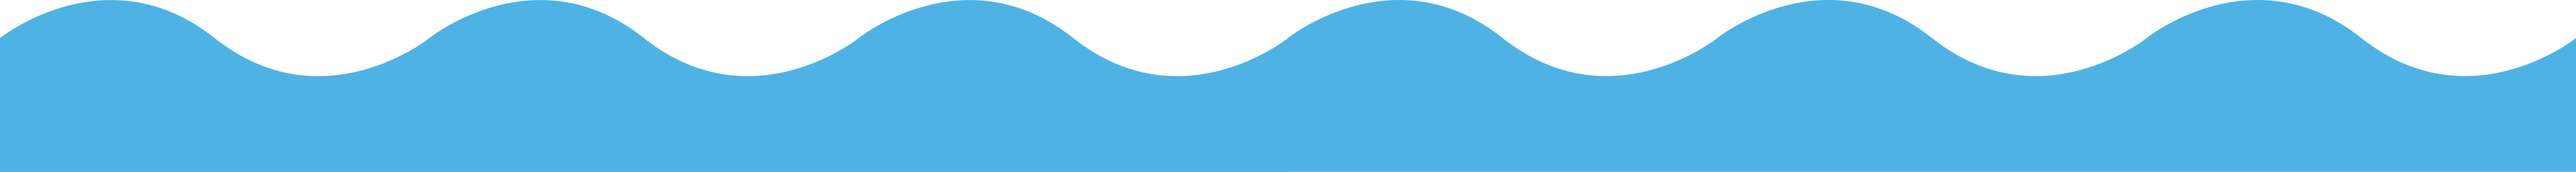
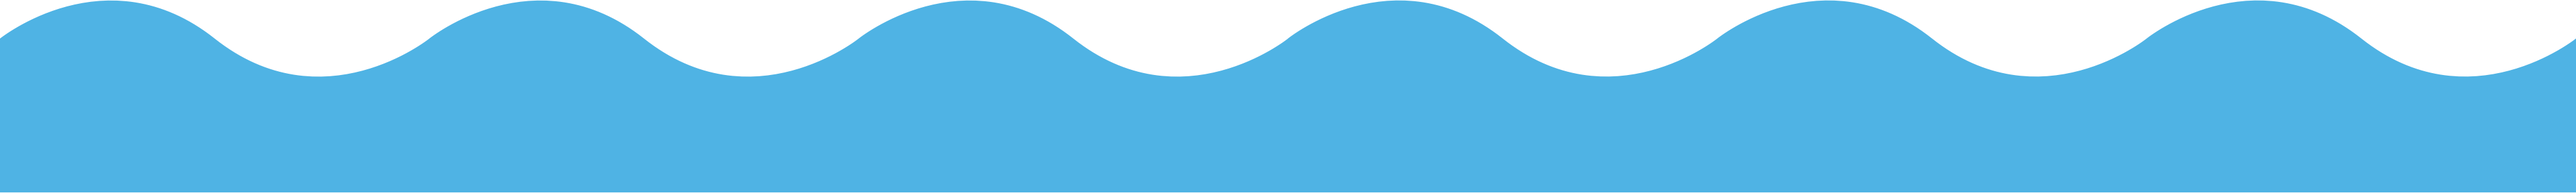
fixed white stripe at bottom #9

diff --git a/app/index.html b/app/index.html
@@ -37,14 +37,20 @@
         <img src="images/codeblue-hlogo.png" alt="">
         <div class="waves">
             <ul id="scene">
-              <li class="layer" data-depth="0.40" id="back"><img src="../images/parallax/back.png" alt=""></li>
-              <li class="layer" data-depth="1.00" id="front"><img src="../images/parallax/front.png" alt=""></li>
+              <li class="layer"
+              data-depth="0.40"
+              id="back"
+              data-limit-y="100"
+              ><img src="../images/parallax/back.png" alt=""></li>
+              <li class="layer" 
+              data-depth="1.00" 
+              id="front"><img src="../images/parallax/front.png" alt=""></li>
             </ul>
         </div>
         <script type="text/javascript">
             var scene = document.getElementById('scene');
             console.log(scene);
-            var parallax = new Parallax(scene);
+            var parallax = new Parallax(scene); 
         </script>
       </div>
     </core-header-panel>

diff --git a/app/styles/main.scss b/app/styles/main.scss
@@ -1,5 +1,4 @@
 body {
-  background-color: yellow;
   font-family: "Raleway", sans-serif;
   color: #333;
 }
@@ -18,14 +17,16 @@ core-icon[icon="polymer"] {
 
 .waves{
   position: absolute;
-  bottom: 0;
+  bottom:   0;
 }
+
 a {
   color: #50a3f7;
 }
 
 .layer {
   margin-left: -30%;
+  margin-bottom: -1%;
 }
 
 #resize{
